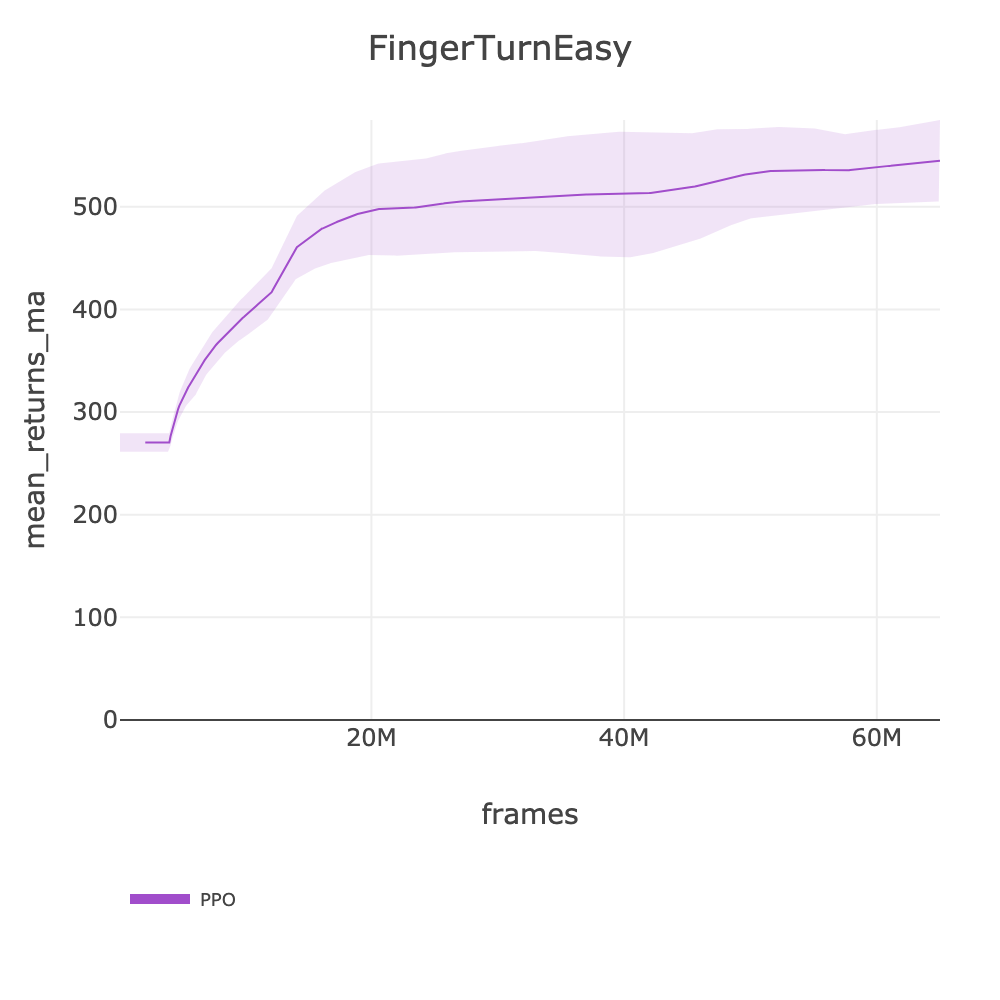
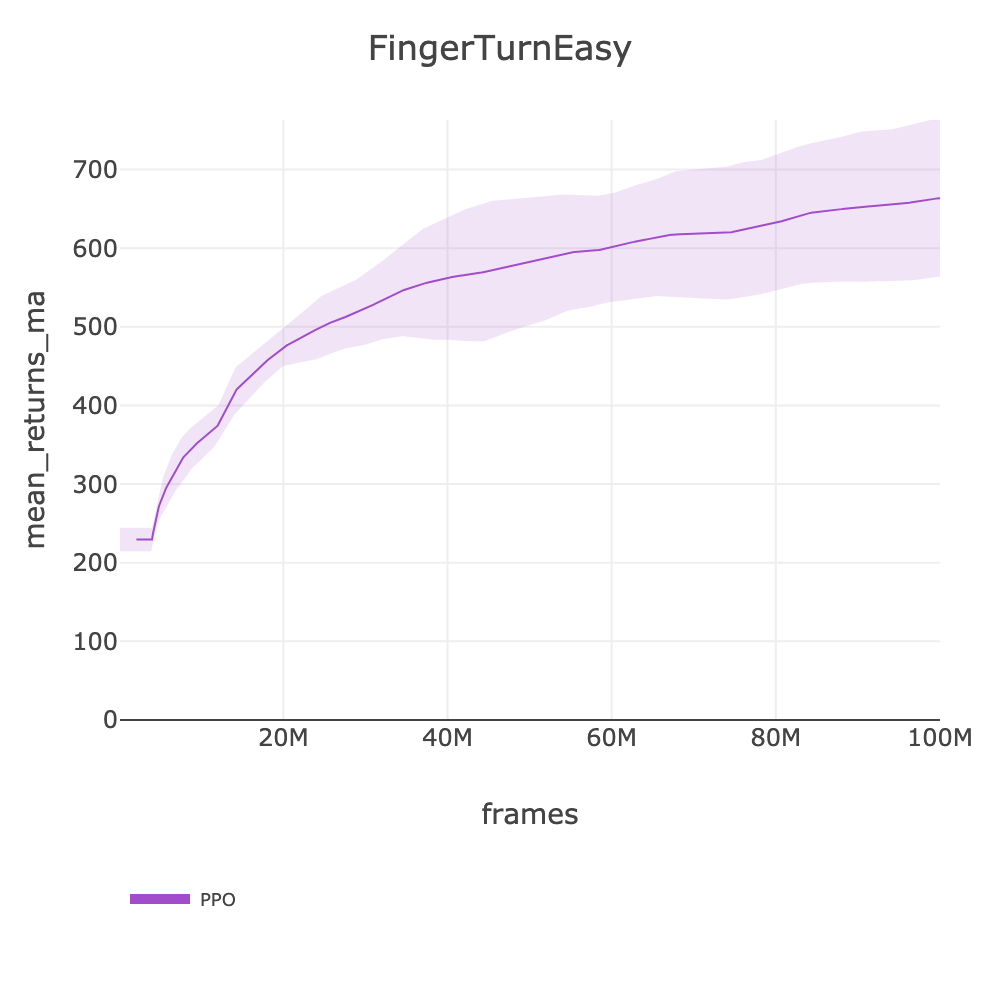
fix: correct BENCHMARKS.md scores to use strength metric + intake FingerTurnEasy 570.9 ⚠
Score corrections (total_reward_ma → strength for consistency):
- AcrobotSwingup: 253.24 → 172.8 (⚠, was incorrectly marked ✅)
- CartpoleBalanceSparse: 991.81 → 545.1 (⚠, was incorrectly marked ✅)
- CartpoleSwingup: 641.51 → 443.0
- CartpoleSwingupSparse: 331.23 → 270.9

New intake — FingerTurnEasy: strength 570.9, target 950. Curve still rising
at 100M but slope decelerating. Needs spec change or 300M+ frames.

diff --git a/docs/BENCHMARKS.md b/docs/BENCHMARKS.md
@@ -883,7 +883,7 @@ source .env && uv run slm-lab run-remote --gpu \
 
 | ENV | Algorithm | Status | MA | SPEC_NAME | HF Data | Target (ref) | FPS | Frames | Wall Clock |
 |-----|-----------|--------|-----|-----------|---------|--------------|-----|--------|------------|
-| playground/AcrobotSwingup | PPO | ✅ | 253.24 | ppo_playground | [ppo_playground_acrobotswingup_2026_03_12_175809](https://huggingface.co/datasets/SLM-Lab/benchmark-dev/tree/main/data/ppo_playground_acrobotswingup_2026_03_12_175809) | 220 | 8.4K | 100M | 3h 22m |
+| playground/AcrobotSwingup | PPO | ⚠ | 172.8 | ppo_playground | [ppo_playground_acrobotswingup_2026_03_12_175809](https://huggingface.co/datasets/SLM-Lab/benchmark-dev/tree/main/data/ppo_playground_acrobotswingup_2026_03_12_175809) | 220 | 8.4K | 100M | 3h 22m |
 | | CrossQ | 🔄 | - | crossq_playground | - | | - | - | - |
 | | SAC | 🔄 | - | sac_playground_hard | - | | - | - | - |
 | playground/AcrobotSwingupSparse | PPO | ✅ | 42.74 | ppo_playground | [ppo_playground_acrobotswingupsparse_2026_03_12_103824](https://huggingface.co/datasets/SLM-Lab/benchmark-dev/tree/main/data/ppo_playground_acrobotswingupsparse_2026_03_12_103824) | 15 | 17390 | 100M | 1h 36m |
@@ -895,13 +895,13 @@ source .env && uv run slm-lab run-remote --gpu \
 | playground/CartpoleBalance | PPO | ✅ | 968.23 | ppo_playground | [ppo_playground_cartpolebalance_2026_03_12_141924](https://huggingface.co/datasets/SLM-Lab/benchmark-dev/tree/main/data/ppo_playground_cartpolebalance_2026_03_12_141924) | 950 | 8413 | 65M | 2h 9m |
 | | SAC | 🔄 | - | sac_playground | - | | - | - | - |
 | | CrossQ | 🔄 | - | crossq_playground | - | | - | - | - |
-| playground/CartpoleBalanceSparse | PPO | ✅ | 991.81 | ppo_playground | [ppo_playground_cartpolebalancesparse_2026_03_12_175822](https://huggingface.co/datasets/SLM-Lab/benchmark-dev/tree/main/data/ppo_playground_cartpolebalancesparse_2026_03_12_175822) | 700 | 8.2K | 100M | 3h 22m |
+| playground/CartpoleBalanceSparse | PPO | ⚠ | 545.1 | ppo_playground | [ppo_playground_cartpolebalancesparse_2026_03_12_175822](https://huggingface.co/datasets/SLM-Lab/benchmark-dev/tree/main/data/ppo_playground_cartpolebalancesparse_2026_03_12_175822) | 700 | 8.2K | 100M | 3h 22m |
 | | SAC | 🔄 | - | sac_playground | - | | - | - | - |
 | | CrossQ | 🔄 | - | crossq_playground | - | | - | - | - |
-| playground/CartpoleSwingup | PPO | ⚠ | 641.51 | ppo_playground | [ppo_playground_cartpoleswingup_2026_03_12_175813](https://huggingface.co/datasets/SLM-Lab/benchmark-dev/tree/main/data/ppo_playground_cartpoleswingup_2026_03_12_175813) | 800 | 8.2K | 100M | 3h 22m |
+| playground/CartpoleSwingup | PPO | ⚠ | 443.0 | ppo_playground | [ppo_playground_cartpoleswingup_2026_03_12_175813](https://huggingface.co/datasets/SLM-Lab/benchmark-dev/tree/main/data/ppo_playground_cartpoleswingup_2026_03_12_175813) | 800 | 8.2K | 100M | 3h 22m |
 | | CrossQ | 🔄 | - | crossq_playground | - | | - | - | - |
 | | SAC | 🔄 | - | sac_playground | - | | - | - | - |
-| playground/CartpoleSwingupSparse | PPO | ⚠ | 331.23 | ppo_playground | [ppo_playground_cartpoleswingupsparse_2026_03_12_175830](https://huggingface.co/datasets/SLM-Lab/benchmark-dev/tree/main/data/ppo_playground_cartpoleswingupsparse_2026_03_12_175830) | 425 | 8.2K | 100M | 3h 22m |
+| playground/CartpoleSwingupSparse | PPO | ⚠ | 270.9 | ppo_playground | [ppo_playground_cartpoleswingupsparse_2026_03_12_175830](https://huggingface.co/datasets/SLM-Lab/benchmark-dev/tree/main/data/ppo_playground_cartpoleswingupsparse_2026_03_12_175830) | 425 | 8.2K | 100M | 3h 22m |
 | | CrossQ | 🔄 | - | crossq_playground | - | | - | - | - |
 | | SAC | 🔄 | - | sac_playground_hard | - | | - | - | - |
 | playground/CheetahRun | PPO | ✅ | 865.83 | ppo_playground | [ppo_playground_cheetahrun_2026_03_12_082509](https://huggingface.co/datasets/SLM-Lab/benchmark-dev/tree/main/data/ppo_playground_cheetahrun_2026_03_12_082509) | 850 | 11260 | 100M | 2h 28m |
@@ -910,7 +910,7 @@ source .env && uv run slm-lab run-remote --gpu \
 | playground/FingerSpin | PPO | ⚠ | 561.3 | ppo_playground | [ppo_playground_fingerspin_2026_03_12_173104](https://huggingface.co/datasets/SLM-Lab/benchmark-dev/tree/main/data/ppo_playground_fingerspin_2026_03_12_173104) | 600 | 7.9K | 65M | 2h 16m |
 | | CrossQ | 🔄 | - | crossq_playground | - | | - | - | - |
 | | SAC | 🔄 | - | sac_playground | - | | - | - | - |
-| playground/FingerTurnEasy | PPO | ⚠ | 544.76 | ppo_playground | [ppo_playground_fingerturneasy_2026_03_12_134301](https://huggingface.co/datasets/SLM-Lab/benchmark-dev/tree/main/data/ppo_playground_fingerturneasy_2026_03_12_134301) | 950 | 6362 | 65M | 2h 50m |
+| playground/FingerTurnEasy | PPO | ⚠ | 570.9 | ppo_playground | [ppo_playground_fingerturneasy_2026_03_12_175835](https://huggingface.co/datasets/SLM-Lab/benchmark-dev/tree/main/data/ppo_playground_fingerturneasy_2026_03_12_175835) | 950 | 7.9K | 100M | 3h 30m |
 | | CrossQ | 🔄 | - | crossq_playground | - | | - | - | - |
 | | SAC | 🔄 | - | sac_playground | - | | - | - | - |
 | playground/FingerTurnHard | PPO | ⚠ | 484.11 | ppo_playground | [ppo_playground_fingerturnhard_2026_03_12_134231](https://huggingface.co/datasets/SLM-Lab/benchmark-dev/tree/main/data/ppo_playground_fingerturnhard_2026_03_12_134231) | 950 | 6068 | 65M | 2h 59m |
